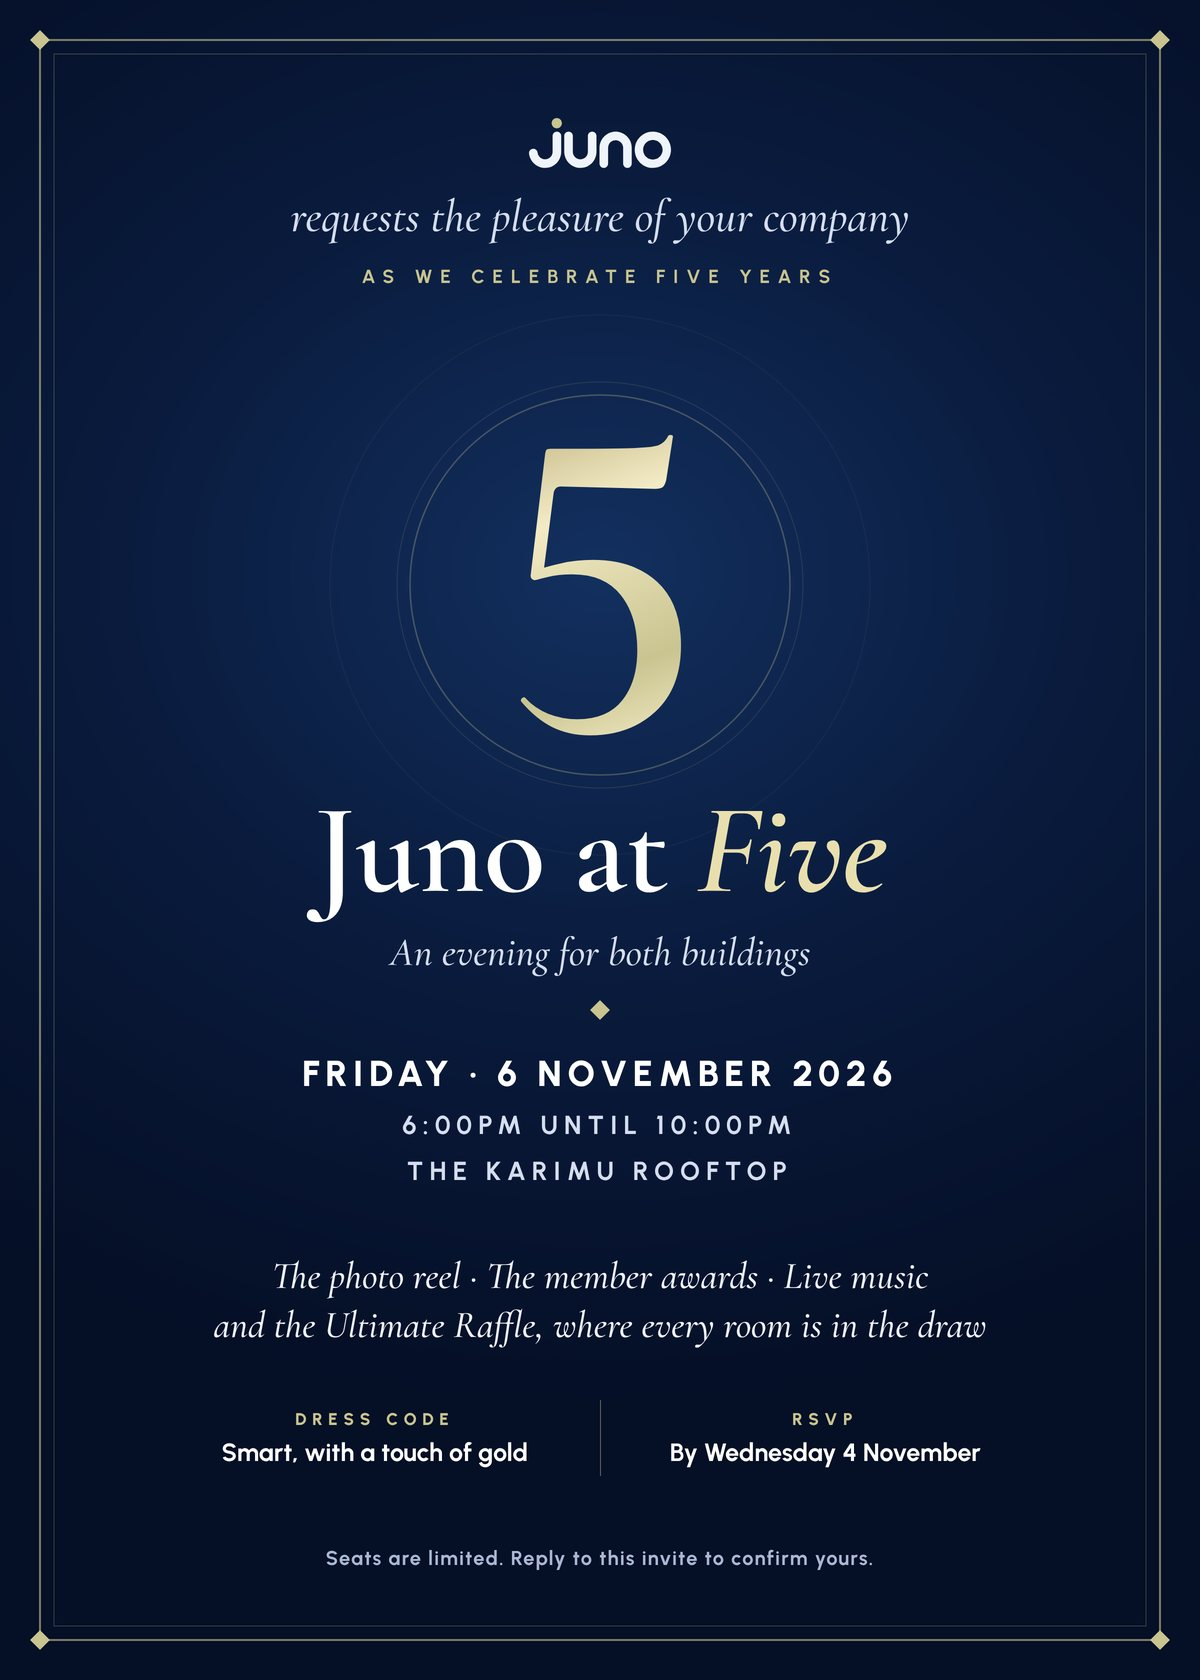
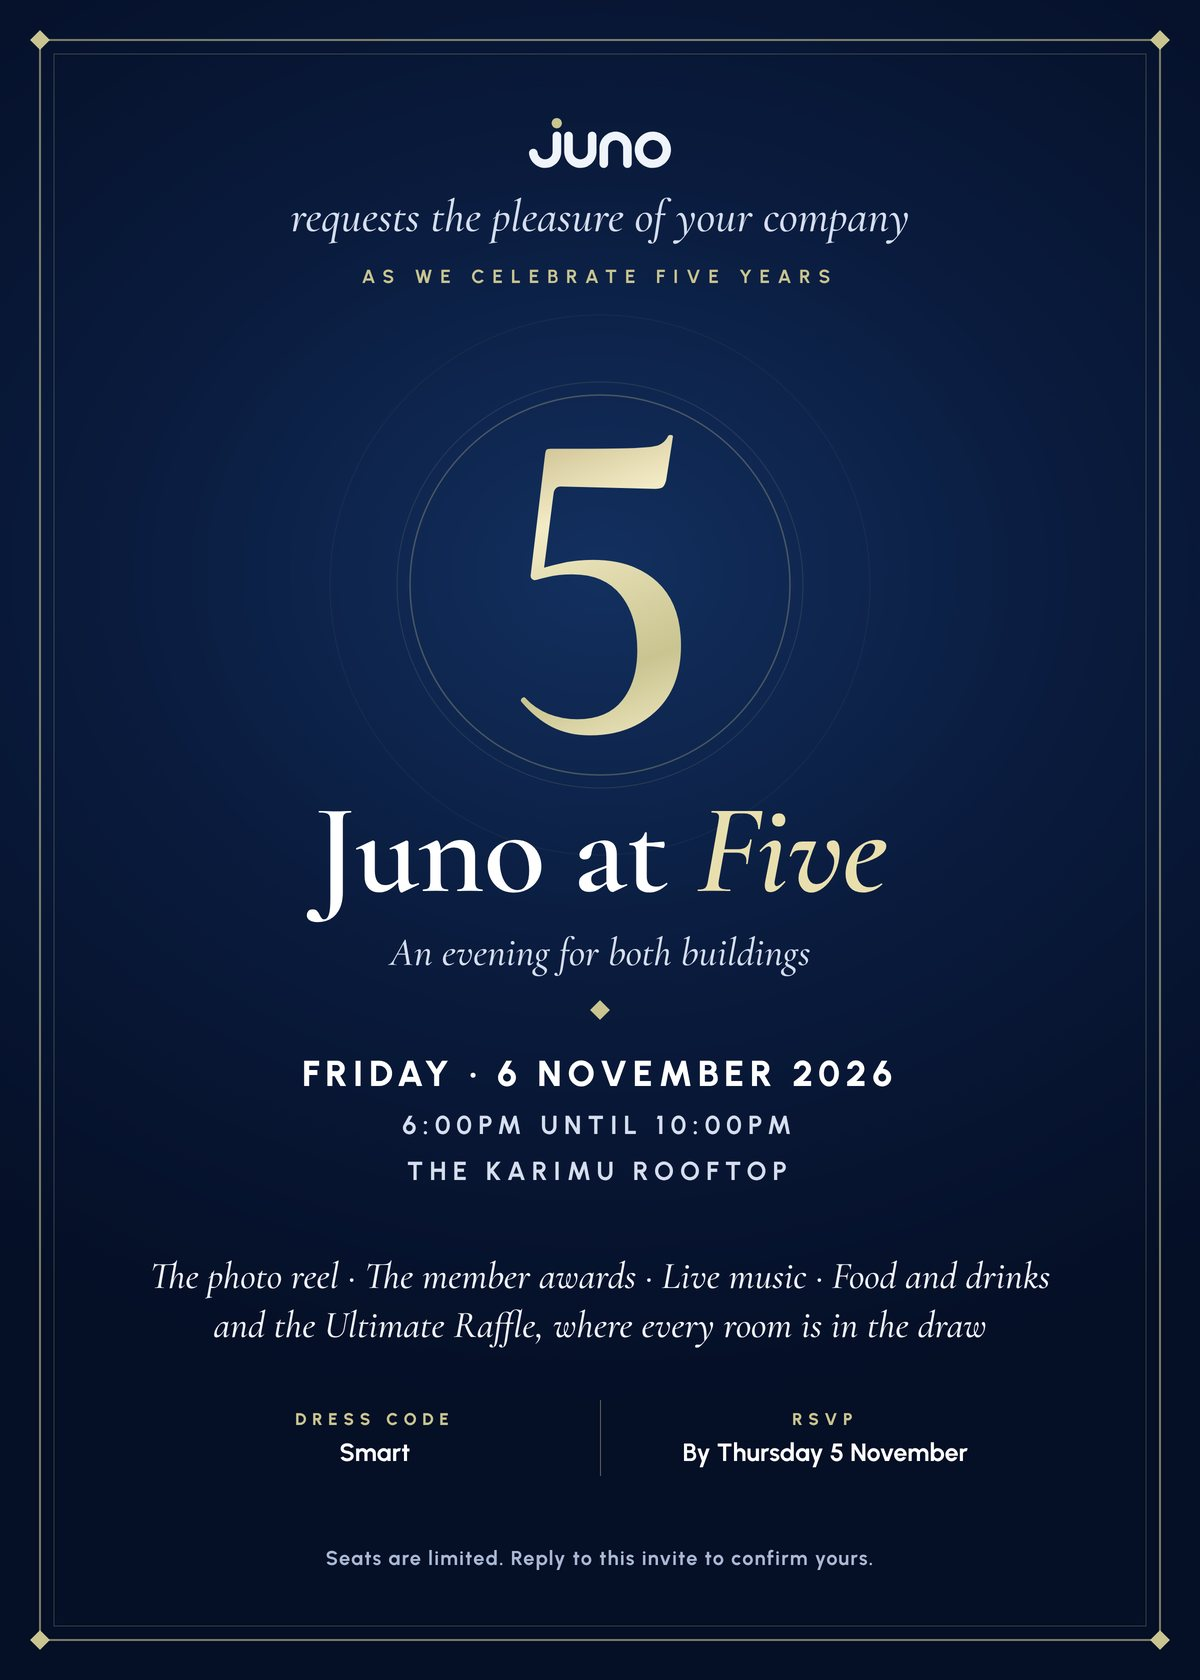
Juno at Five: RSVP by Thursday 5 November, dress code Smart, food and drinks on the invite card and link preview
Claude-Session: https://claude.ai/code/session_01XdH3ECsCFRj6sJaFGNUV7W

diff --git a/rsvp/index.html b/rsvp/index.html
@@ -7,7 +7,7 @@
 <meta name="theme-color" content="#00285E">
 <meta property="og:type" content="website">
 <meta property="og:title" content="You're invited: Juno at Five">
-<meta property="og:description" content="Friday 6 November, 6pm to 10pm on the Karimu rooftop. Please RSVP by Wednesday 4 November.">
+<meta property="og:description" content="Friday 6 November, 6pm to 10pm on the Karimu rooftop. Please RSVP by Thursday 5 November.">
 <meta property="og:url" content="https://chizzyaustin.github.io/Life-at-Juno/rsvp/">
 <meta property="og:image" content="https://chizzyaustin.github.io/Life-at-Juno/rsvp/og.jpg">
 <meta property="og:image:width" content="1200">
@@ -300,8 +300,8 @@ const EVENT = {
   when: "Friday 6 November, 6pm to 10pm",
   where: "The Karimu rooftop",
   whereIn: "on the Karimu rooftop",
-  dress: "Smart, with a touch of gold",
-  replyBy: "Wednesday 4 November",
+  dress: "Smart",
+  replyBy: "Thursday 5 November",
   startUtc: "20261106T170000Z",   // 6pm Lagos
   endUtc: "20261106T210000Z",     // 10pm Lagos
   location: "Juno Karimu rooftop, Sabo, Yaba, Lagos",
